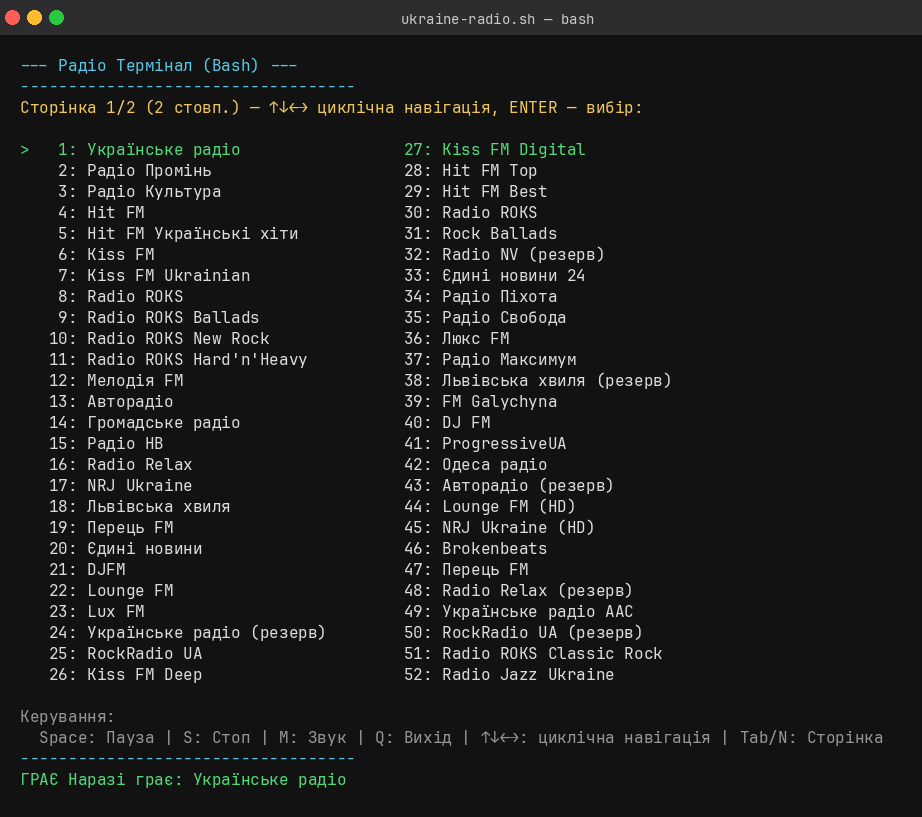
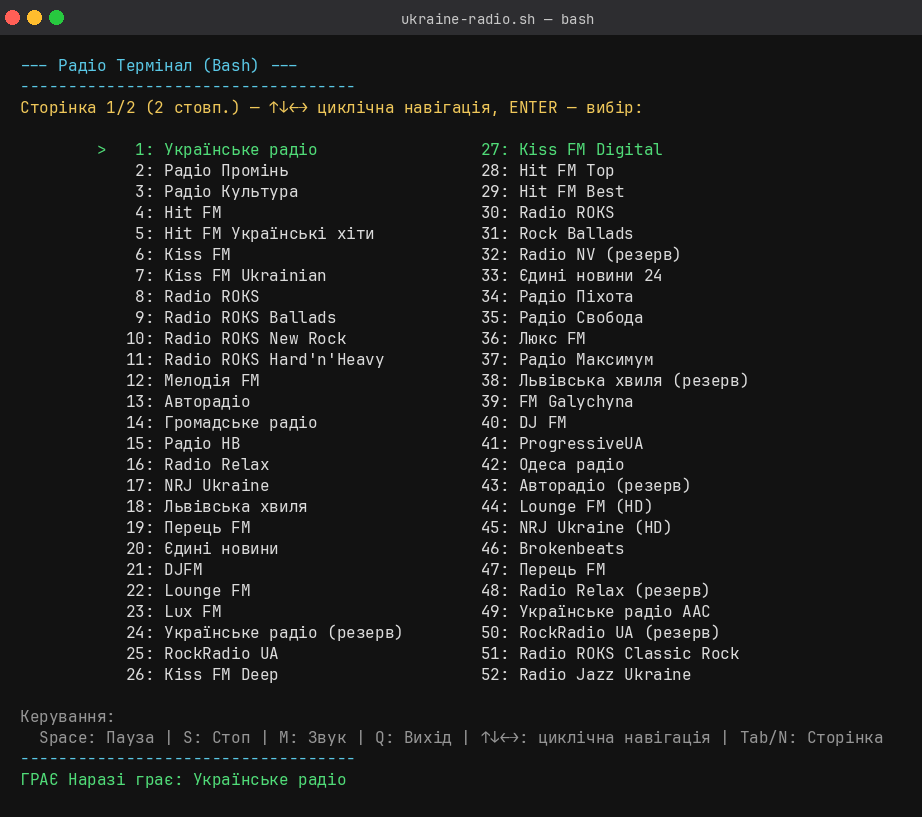
Оновлено скріншот та опис: центрування і швидка навігація
- Скріншот docs/screenshot.png тепер показує центровану сітку станцій
- README доповнено описом центрування сітки та швидкодії навігації
  (пряме керування терміналом без зайвих форків процесів)

Changed region(s): [[0.0607, 0.153, 0.82, 0.8568], [0.3037, 0.4896, 0.3341, 0.5508]]

diff --git a/README.md b/README.md
@@ -32,11 +32,14 @@ chmod +x ukraine-radio.sh
   поточний розмір вікна терміналу (`tput lines`/`tput cols`) — від 1 до 5
   стовпчиків, залежно від ширини вікна та шрифту. При зміні розміру вікна
   (WINCH) розкладка перераховується на льоту, тож меню завжди гарно
-  вписується в екран без обрізання.
+  вписується в екран без обрізання. Сітка стовпчиків центрується по
+  горизонталі відносно ширини вікна.
 - Зручне меню управління у терміналі:
   - Навігація стрілками ↑↓←→ — **циклічна**: вихід за межі стовпчика чи
     крайнього стовпчика переносить курсор на протилежний край (зверху↔знизу,
-    зліва↔справа)
+    зліва↔справа). Малювання екрана виконано через прямі ANSI-послідовності
+    (без зайвих викликів зовнішніх процесів), тож навігація не гальмує навіть
+    при частих натисканнях клавіш.
   - `Tab` або `N` — циклічне перемикання між сторінками
   - Enter — запуск станції
   - Введення номера станції (1-100) одразу перемикає на потрібну сторінку
